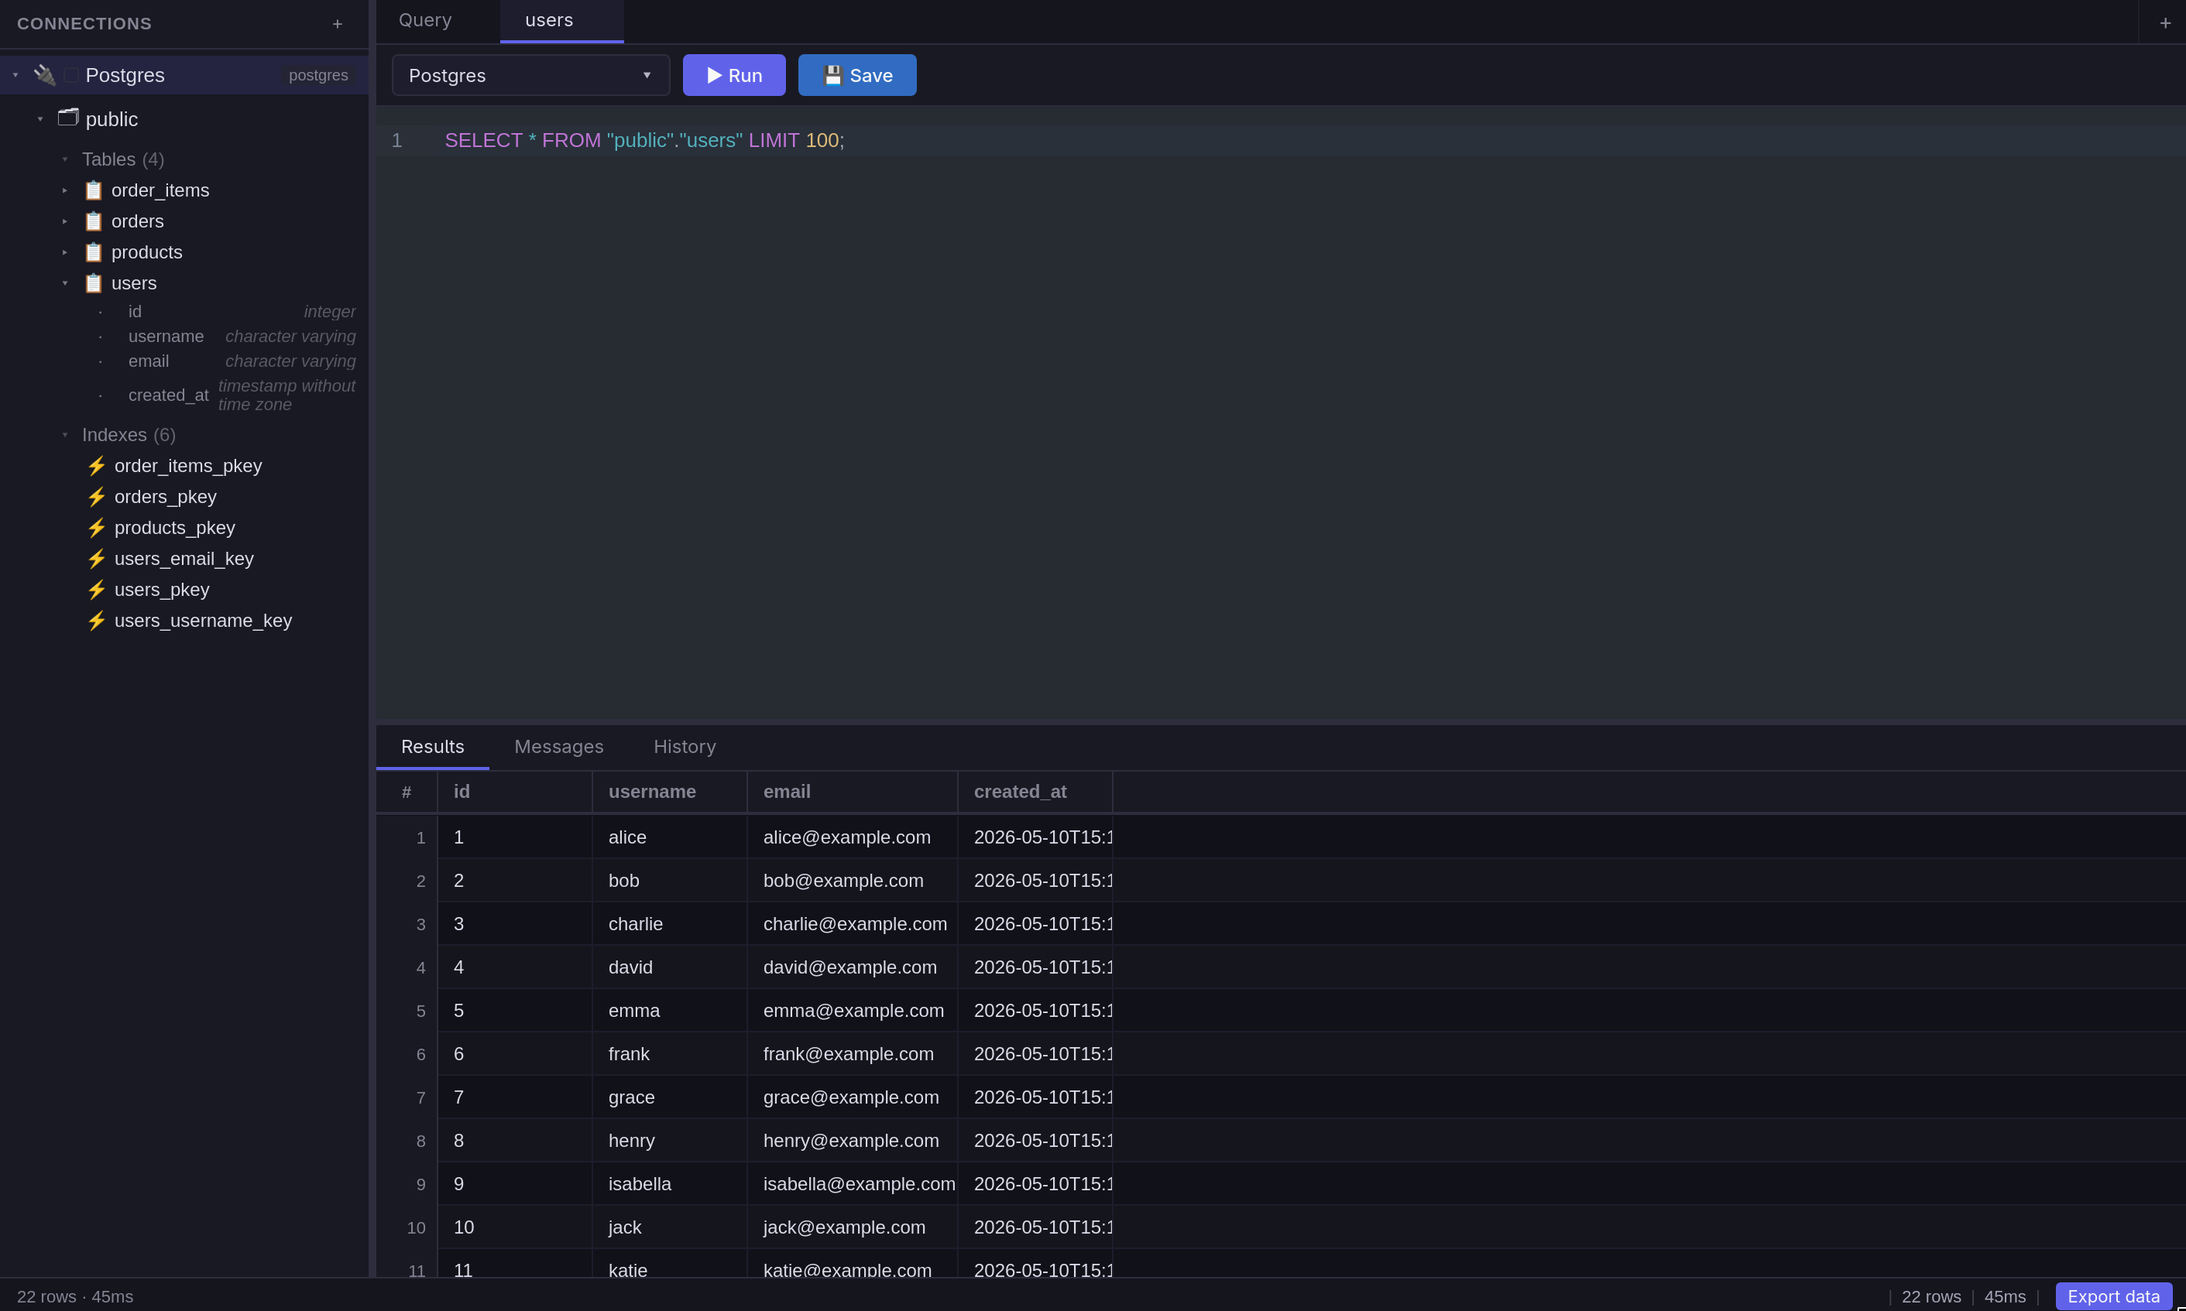
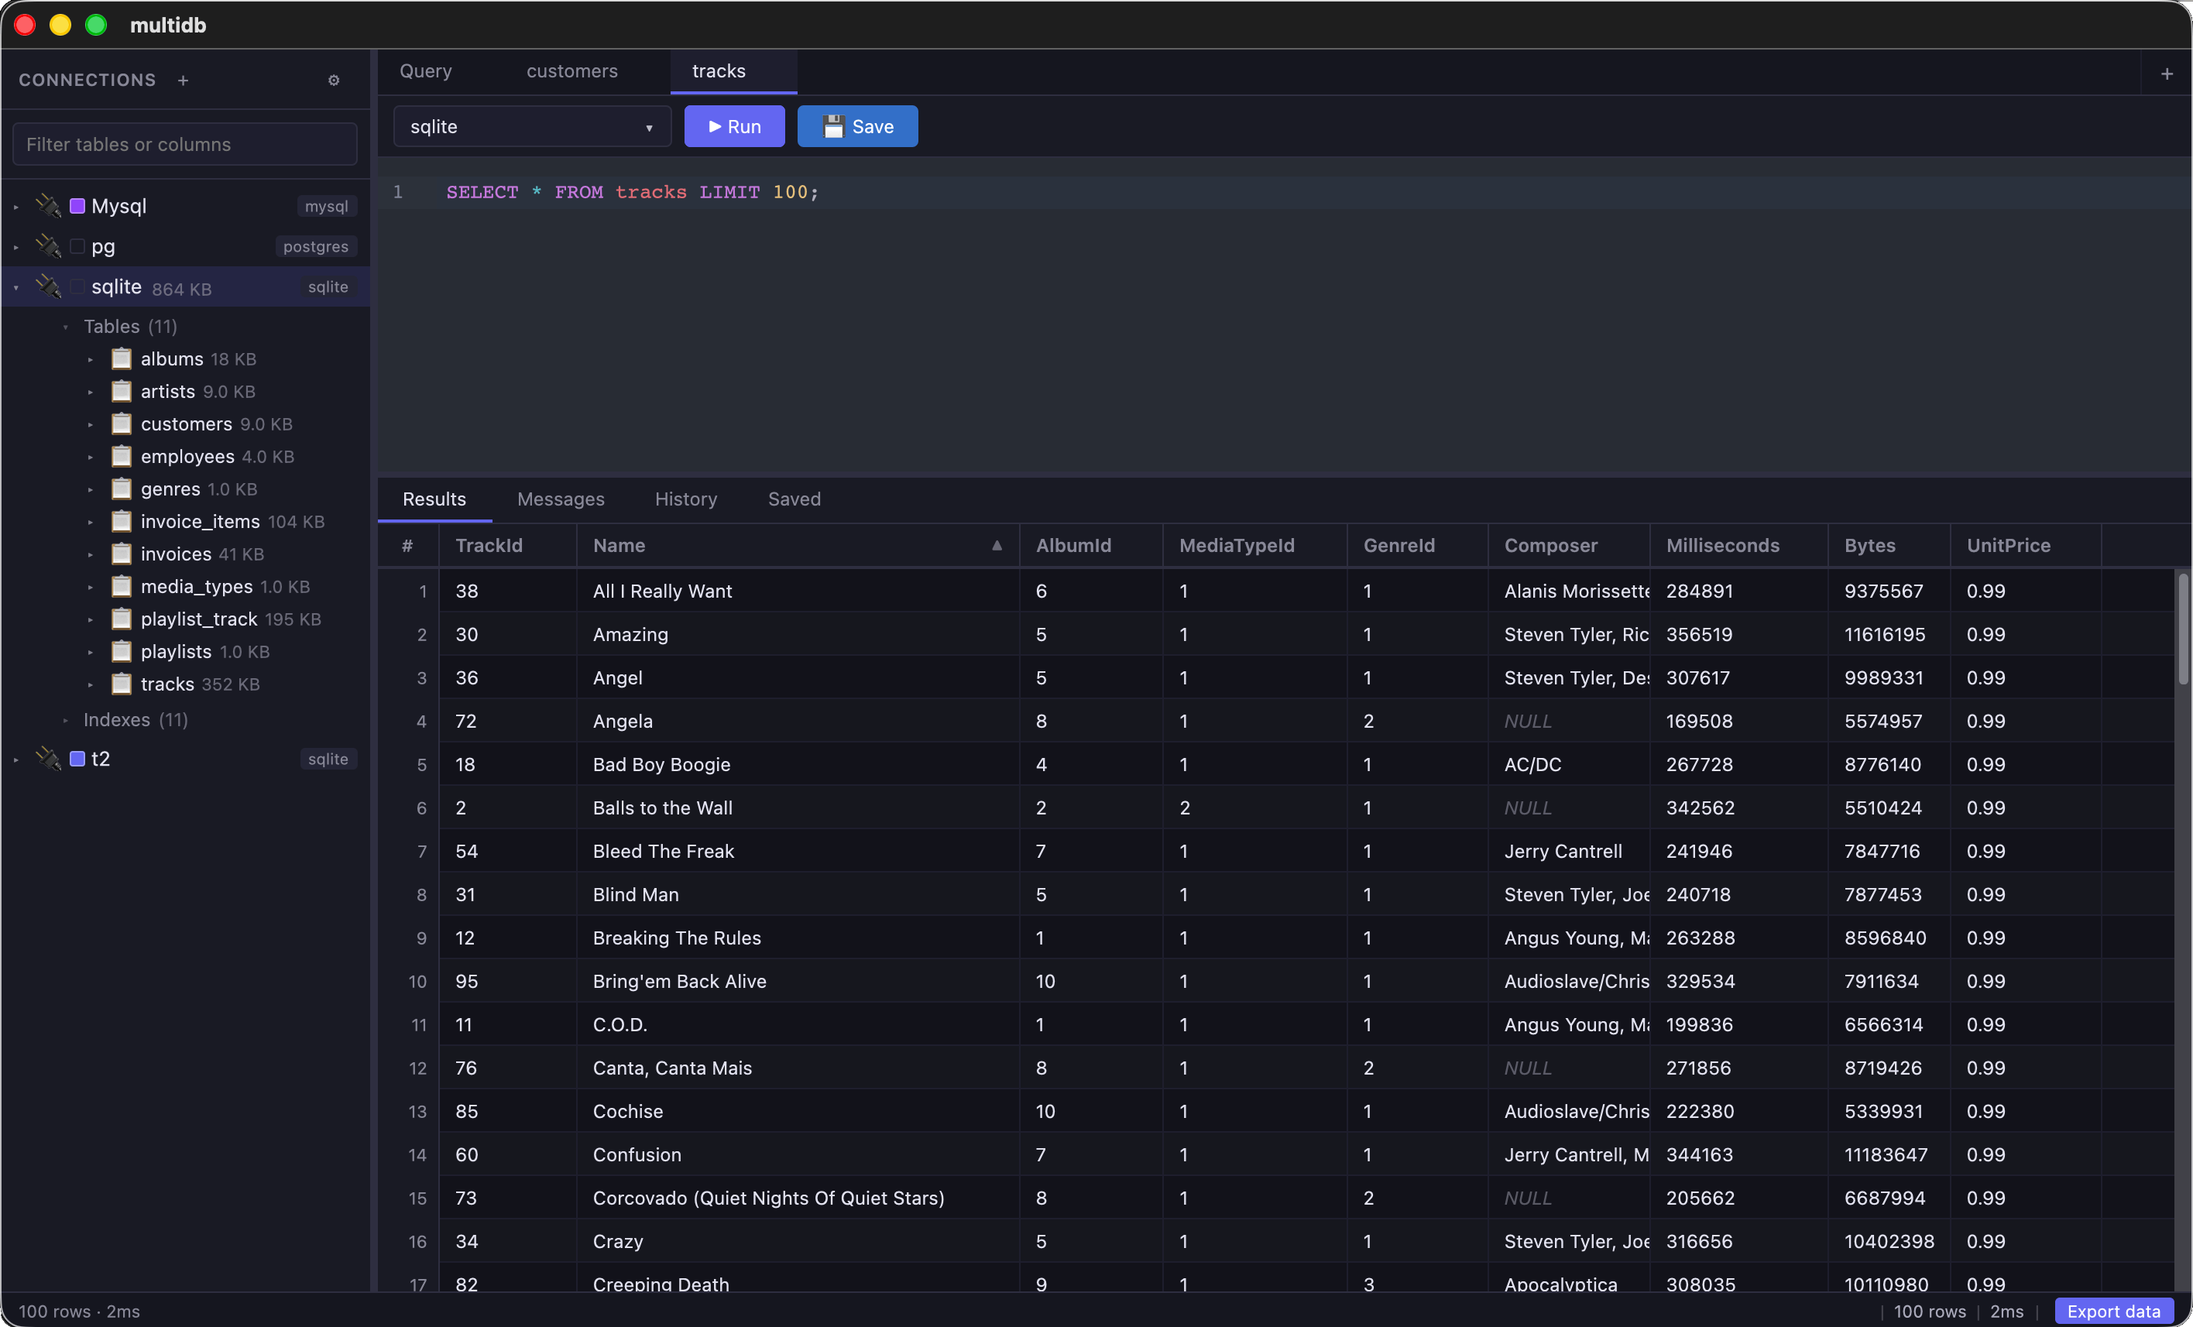
fix column resizing

diff --git a/desktop/src/ui/grid.rs b/desktop/src/ui/grid.rs
@@ -7,8 +7,8 @@ use crate::ui::textfmt::{escape_tsv_cell, format_value_for_clipboard};
 use crate::ui::theme::{self, hsla, Rgba};
 use gpui::{
     fill, point, px, quad, size, App, Bounds, BorderStyle, ContentMask, Corners, Edges, Element, ElementId, Entity,
-    Font, FontStyle, FontWeight, GlobalElementId, IntoElement, LayoutId, Pixels, Point, SharedString, Style, TextRun,
-    Window,
+    Font, FontStyle, FontWeight, GlobalElementId, IntoElement, LayoutId, PathBuilder, Pixels, Point, SharedString,
+    Style, TextRun, Window,
 };
 use std::collections::{BTreeSet, HashMap};
 use std::sync::Arc;
@@ -16,6 +16,12 @@ use std::sync::Arc;
 pub const BASE_ROW_HEIGHT: f32 = 28.0;
 pub const BASE_CELL_PAD_X: f32 = 10.0;
 const EXPLAIN_DEFAULT_TEXT_LEN: usize = 120;
+/// How much of a value a column will widen to show when it is expanded
+/// (double-clicking the header's right edge). Anything longer than this keeps
+/// its eye button, which opens the whole value in a window.
+pub const EXPAND_CHARS: usize = 256;
+/// Side of the eye button drawn in cells whose value is longer than that.
+pub const EYE_SIZE: f32 = 13.0;
 pub const SCROLLBAR: f32 = 12.0;
 /// `::-webkit-scrollbar-thumb` sits inside a 3px border of the track colour.
 pub const SCROLLBAR_INSET: f32 = 3.0;
@@ -133,6 +139,52 @@ impl ScrollGeom {
     }
 }
 
+/// The eye button: a lens outline with a pupil, drawn as paths because gpui
+/// can only shape text it has a glyph for and this has to scale with the grid.
+fn paint_eye(window: &mut Window, center: Point<Pixels>, size: f32, color: Rgba) {
+    let (hw, hh) = (size * 0.5, size * 0.3);
+    let at = |dx: f32, dy: f32| point(center.x + px(dx), center.y + px(dy));
+    let steps = 10;
+    // A lid is a parabola from one corner of the lens to the other.
+    let lid = |t: f32, up: bool| {
+        let x = -hw + size * t;
+        let bulge = hh * (1.0 - (2.0 * t - 1.0).powi(2));
+        (x, if up { -bulge } else { bulge })
+    };
+    let mut pb = PathBuilder::stroke(px((size * 0.09).max(1.0)));
+    for i in 0..=steps {
+        let (x, y) = lid(i as f32 / steps as f32, true);
+        if i == 0 {
+            pb.move_to(at(x, y));
+        } else {
+            pb.line_to(at(x, y));
+        }
+    }
+    for i in (0..=steps).rev() {
+        let (x, y) = lid(i as f32 / steps as f32, false);
+        pb.line_to(at(x, y));
+    }
+    if let Ok(path) = pb.build() {
+        window.paint_path(path, hsla(color));
+    }
+
+    let r = size * 0.17;
+    let mut pb = PathBuilder::fill();
+    for i in 0..=16 {
+        let a = std::f32::consts::TAU * i as f32 / 16.0;
+        let p = at(r * a.cos(), r * a.sin());
+        if i == 0 {
+            pb.move_to(p);
+        } else {
+            pb.line_to(p);
+        }
+    }
+    pb.close();
+    if let Ok(path) = pb.build() {
+        window.paint_path(path, hsla(color));
+    }
+}
+
 fn thumb(view: f32, content: f32, scroll: f32) -> (f32, f32) {
     if content <= view || view <= 0.0 {
         return (0.0, view.max(0.0));
@@ -169,6 +221,14 @@ impl CellSel {
     pub fn norm(&self) -> (usize, usize, usize, usize) {
         (self.r0.min(self.r1), self.r0.max(self.r1), self.c0.min(self.c1), self.c0.max(self.c1))
     }
+}
+
+/// A cell value shown in full, opened from its eye button.
+pub struct CellPopup {
+    pub column: String,
+    /// 1-based row number, as the grid shows it.
+    pub row: usize,
+    pub text: String,
 }
 
 pub struct EditOverlay {
@@ -231,11 +291,13 @@ fn initial_text_len(col: &str) -> usize {
     }
 }
 
-/// `calculateAutoFitColumnWidth` from lib/columnSizing.ts.
+/// `calculateAutoFitColumnWidth` from lib/columnSizing.ts. There is no upper
+/// clamp here: the width comes from cell text already cut to [`EXPAND_CHARS`],
+/// which is what bounds how far a column can expand.
 pub fn auto_fit_width(max_cell_text_width: f32, header_text_width: f32, pad: f32, scale: f32) -> f32 {
     let cell = max_cell_text_width * scale + pad * 2.0 + 12.0 * scale;
     let header = header_text_width * scale + pad * 2.0 + 28.0 * scale;
-    cell.max(header).max(50.0 * scale).min(800.0 * scale)
+    cell.max(header).max(50.0 * scale)
 }
 
 impl GridState {
@@ -331,7 +393,9 @@ impl GridState {
                     if len > self.max_len[c] {
                         self.max_len[c] = len;
                     }
-                    let w = self.measure(&text, cx);
+                    // Expanding stops at EXPAND_CHARS; the rest of a longer
+                    // value is reached through its eye button.
+                    let w = self.measure(js::slice_chars(&text, EXPAND_CHARS), cx);
                     if w > self.max_base_width[c] {
                         self.max_base_width[c] = w;
                     }
@@ -429,6 +493,23 @@ impl GridState {
             }
         }
         None
+    }
+
+    /// Where the eye button sits in a cell, in body coordinates. Cells whose
+    /// value is longer than [`EXPAND_CHARS`] draw one at their right edge.
+    pub fn eye_at(&self, row: usize, col: usize, total_rows: usize) -> Bounds<Pixels> {
+        let s = self.font_scale;
+        let rh = row_height(s);
+        let pad = BASE_CELL_PAD_X * s;
+        let size = EYE_SIZE * s;
+        let left: f32 = self.col_widths[..col.min(self.col_widths.len())].iter().sum();
+        let x = row_num_width(total_rows, s) + left - self.scroll_x;
+        let cw = self.col_widths.get(col).copied().unwrap_or(0.0);
+        let y = row as f32 * rh - self.scroll_y;
+        Bounds::new(
+            point(px(x + cw - pad - size), px(y + (rh - size) / 2.0)),
+            gpui::size(px(size), px(size)),
+        )
     }
 
     pub fn row_at(&self, local: Point<Pixels>, total_rows: usize) -> Option<usize> {
@@ -780,6 +861,19 @@ impl Element for GridBody {
                         },
                     };
                     if let Some(text) = text {
+                        // Values too long to ever fit get an eye button that
+                        // opens the whole thing; the text stops short of it.
+                        let long = js::char_len(&text) > EXPAND_CHARS;
+                        let eye = EYE_SIZE * s;
+                        let clip = if long { rect(x + 1.0, y, (cw - 2.0 - eye - pad * 0.5).max(0.0), rh) } else { clip };
+                        if long {
+                            paint_eye(
+                                window,
+                                at(x + cw - pad - eye / 2.0, y + rh / 2.0),
+                                eye,
+                                theme::TEXT_MUTED,
+                            );
+                        }
                         // Canvas fillText renders the string on one line.
                         let text: String = text.replace(['\n', '\r'], " ");
                         let text = if text.len() > 4000 { js::slice_chars(&text, 1000).to_string() } else { text };
@@ -891,9 +985,36 @@ mod tests {
     }
 
     #[test]
-    fn auto_fit_is_clamped() {
+    fn auto_fit_has_a_floor_but_no_ceiling() {
         assert_eq!(auto_fit_width(0.0, 0.0, 10.0, 1.0), 50.0);
-        assert_eq!(auto_fit_width(4000.0, 0.0, 10.0, 1.0), 800.0);
+        // What bounds an expanded column is the measured text, which is cut to
+        // EXPAND_CHARS before it is measured — not a fixed pixel clamp.
+        assert_eq!(auto_fit_width(4000.0, 0.0, 10.0, 1.0), 4032.0);
+    }
+
+    #[test]
+    fn expanding_measures_at_most_256_characters() {
+        // A 5,000-character value measures the same as a 256-character one, so
+        // one enormous cell cannot stretch the column past the limit.
+        let long = "x".repeat(5000);
+        assert_eq!(js::char_len(js::slice_chars(&long, EXPAND_CHARS)), EXPAND_CHARS);
+        assert_eq!(js::slice_chars(&long, EXPAND_CHARS), &long[..EXPAND_CHARS]);
+    }
+
+    #[test]
+    fn the_eye_button_sits_at_the_right_of_its_cell() {
+        let mut g = GridState { font_scale: 1.0, col_widths: vec![100.0, 200.0], ..Default::default() };
+        let rnw = row_num_width(10, 1.0);
+        let eye = g.eye_at(0, 1, 10);
+        // Second column: right edge less the cell padding and the button.
+        assert_eq!(f32::from(eye.right()), rnw + 300.0 - BASE_CELL_PAD_X);
+        assert_eq!(f32::from(eye.size.width), EYE_SIZE);
+        // It travels with the scroll.
+        g.scroll_x = 40.0;
+        g.scroll_y = 15.0;
+        let moved = g.eye_at(2, 1, 10);
+        assert_eq!(f32::from(moved.left()), f32::from(eye.left()) - 40.0);
+        assert_eq!(f32::from(moved.top()), f32::from(eye.top()) + 2.0 * BASE_ROW_HEIGHT - 15.0);
     }
 
     #[test]

diff --git a/desktop/src/ui/output.rs b/desktop/src/ui/output.rs
@@ -766,7 +766,17 @@ impl Workspace {
                                 let w = this.grid.col_widths.get(i).copied().unwrap_or(100.0);
                                 this.grid.resizing = Some((i, e.position.x, w));
                             }))
-                            .on_click(|_, _, cx| cx.stop_propagation()),
+                            .on_click(cx.listener(|this, _, _, cx| {
+                                // A click ends here rather than at the root, so
+                                // the resize has to be finished here too —
+                                // otherwise the column stays glued to the
+                                // pointer after the button comes up. Stopping
+                                // propagation is what keeps the header from
+                                // treating the release as a sort.
+                                this.grid.resizing = None;
+                                this.grid.did_resize = false;
+                                cx.stop_propagation();
+                            })),
                     ),
             );
         }
@@ -1118,6 +1128,17 @@ impl Workspace {
             cx.notify();
             return;
         };
+        // The eye button on a value too long to show opens it in full.
+        if self.grid.eye_at(hit.0, hit.1, total).contains(&local) {
+            if let Some(text) = self.cell_text(&r, hit.0, hit.1) {
+                if js::char_len(&text) > grid::EXPAND_CHARS {
+                    let column = r.columns.get(hit.1).cloned().unwrap_or_default();
+                    self.cell_popup = Some(grid::CellPopup { column, row: hit.0 + 1, text });
+                    cx.notify();
+                    return;
+                }
+            }
+        }
         let anchor = if e.modifiers.shift { self.grid.last_selected.unwrap_or(hit) } else { hit };
         self.grid.selecting = true;
         self.grid.sel_anchor = Some(anchor);
@@ -1126,6 +1147,21 @@ impl Workspace {
         self.grid.row_anchor = None;
         self.grid.last_selected = Some(hit);
         cx.notify();
+    }
+
+    /// The text a cell shows, following the current sort and any pending edit.
+    fn cell_text(&mut self, r: &QueryResult, row: usize, col: usize) -> Option<String> {
+        let sort = self.active_tab().and_then(|t| t.sql()).and_then(|s| s.sort_col.map(|c| (c, s.sort_dir)));
+        let idx = self.grid.sort_index(r, sort);
+        let data_idx = idx.as_ref().and_then(|i| i.get(row).copied()).unwrap_or(row);
+        let pending = self.active_tab().and_then(|t| t.sql()).map(|s| s.pending_edits.clone()).unwrap_or_default();
+        if let Some(edited) = crate::ui::model::pending_get(&pending, data_idx, col) {
+            return Some(edited.clone());
+        }
+        match r.rows.get(data_idx)?.get(col)? {
+            serde_json::Value::Null => None,
+            v => Some(js::value_to_string(v)),
+        }
     }
 
     /// A press on a scrollbar: grab the thumb, or page towards a click on the
@@ -1289,8 +1325,11 @@ impl Workspace {
             if delta.abs() > 2.0 {
                 self.grid.did_resize = true;
             }
+            let min = 50.0 * self.grid.font_scale;
             if let Some(w) = self.grid.col_widths.get_mut(idx) {
-                *w = (start_w + delta).max(50.0);
+                // Live resize: the column follows the pointer and stays where
+                // the button came up.
+                *w = (start_w + delta).max(min);
             }
             cx.notify();
             return;

diff --git a/desktop/src/ui/render.rs b/desktop/src/ui/render.rs
@@ -94,7 +94,9 @@ impl Workspace {
     }
 
     fn close_overlay(&mut self, _: &CloseOverlay, _: &mut Window, cx: &mut Context<Self>) {
-        if self.import_dialog.is_some() {
+        if self.cell_popup.is_some() {
+            self.cell_popup = None;
+        } else if self.import_dialog.is_some() {
             self.import_dialog = None;
         } else if self.title_dialog.is_some() {
             self.title_dialog = None;
@@ -269,7 +271,72 @@ impl Workspace {
         if let Some(el) = self.render_terminate_confirm(window, cx) {
             root = root.child(el);
         }
+        if let Some(el) = self.render_cell_popup(window, cx) {
+            root = root.child(el);
+        }
         root.into_any_element()
+    }
+
+    /// The whole of a cell value that was too long to show in the grid.
+    pub fn render_cell_popup(&mut self, _window: &mut Window, cx: &mut Context<Self>) -> Option<AnyElement> {
+        let popup = self.cell_popup.as_ref()?;
+        let s = Scale(self.scale());
+        let title = format!("{} · row {}", popup.column, popup.row);
+        let text = popup.text.clone();
+        let chars = crate::ui::js::char_len(&text);
+        let copy = text.clone();
+        let modal = dialogs::modal_box(720.0)
+            .id("cell-popup")
+            .on_mouse_down(MouseButton::Left, |_, _, cx| cx.stop_propagation())
+            .child(dialogs::modal_header(s, &title, cx.listener(|this, _, _, cx| {
+                this.cell_popup = None;
+                cx.notify();
+            })))
+            .child(
+                div()
+                    .id("cell-popup-text")
+                    .overflow_y_scroll()
+                    .max_h(px(420.))
+                    .p(px(16.))
+                    .t(s, 12.0)
+                    .font_family(crate::ui::pick_mono_family(cx))
+                    .text_color(theme::TEXT)
+                    .child(text),
+            )
+            .child(
+                div()
+                    .flex()
+                    .items_center()
+                    .justify_between()
+                    .gap(px(8.))
+                    .px(px(20.))
+                    .py(px(14.))
+                    .border_t_1()
+                    .border_color(theme::BORDER)
+                    .child(div().t(s, 12.0).text_color(theme::TEXT_MUTED).child(format!("{chars} characters")))
+                    .child(
+                        div()
+                            .flex()
+                            .gap(px(8.))
+                            .child(dialogs::button("cell-popup-copy", s, "Copy", Btn::Secondary, false, cx.listener(move |this, _, _, cx| {
+                                this.copy_to_clipboard(copy.clone(), cx);
+                            })))
+                            .child(dialogs::button("cell-popup-close", s, "Close", Btn::Primary, false, cx.listener(|this, _, _, cx| {
+                                this.cell_popup = None;
+                                cx.notify();
+                            }))),
+                    ),
+            );
+        Some(
+            overlay(0.5)
+                .id("cell-popup-overlay")
+                .on_mouse_down(MouseButton::Left, cx.listener(|this, _, _, cx| {
+                    this.cell_popup = None;
+                    cx.notify();
+                }))
+                .child(modal)
+                .into_any_element(),
+        )
     }
 
     pub fn render_import_dialog(&mut self, _window: &mut Window, cx: &mut Context<Self>) -> Option<AnyElement> {

diff --git a/desktop/src/ui/workspace.rs b/desktop/src/ui/workspace.rs
@@ -4,7 +4,7 @@
 use crate::commands::{self, StreamEvent};
 use crate::models::{ConnectionConfig, DatabaseConnection, QueryRecord, SavedQuery, SchemaTree};
 use crate::ui::editor::{EditorEvent, SqlEditor};
-use crate::ui::grid::GridState;
+use crate::ui::grid::{self, GridState};
 use crate::ui::model::*;
 use crate::ui::runtime;
 use crate::ui::sql::schema::{db_schema_for, DbSchema};
@@ -166,6 +166,8 @@ pub struct Workspace {
     pub import_dialog: Option<dialogs::ImportDialog>,
     pub title_dialog: Option<dialogs::TitleDialog>,
     pub terminate_confirm: Option<(TabId, DatabaseConnection)>,
+    /// A long cell value opened in full from its eye button.
+    pub cell_popup: Option<grid::CellPopup>,
 
     // Results grid
     pub grid: GridState,
@@ -253,6 +255,7 @@ impl Workspace {
             import_dialog: None,
             title_dialog: None,
             terminate_confirm: None,
+            cell_popup: None,
             grid: GridState::default(),
             conn_select_open: None,
             hovered: None,
